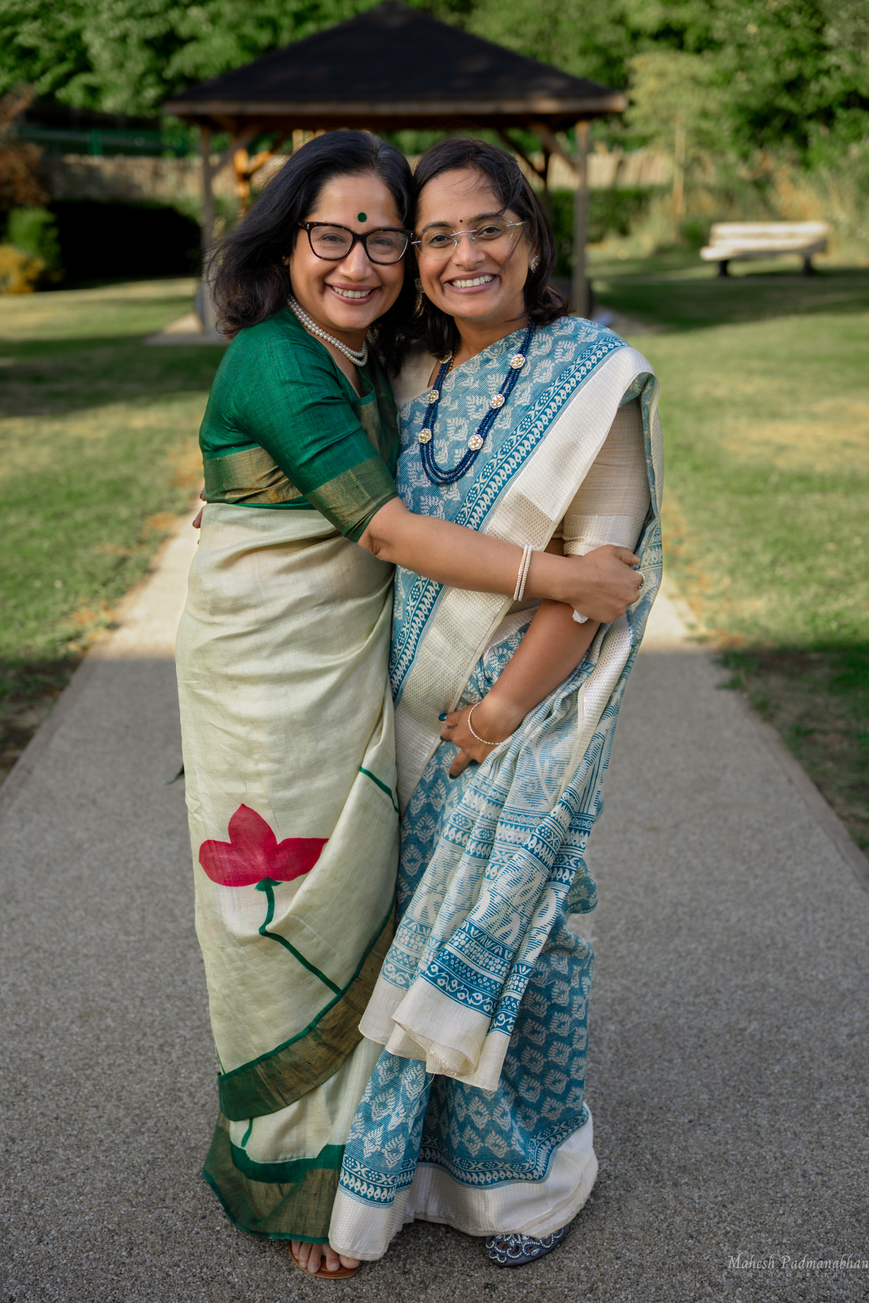
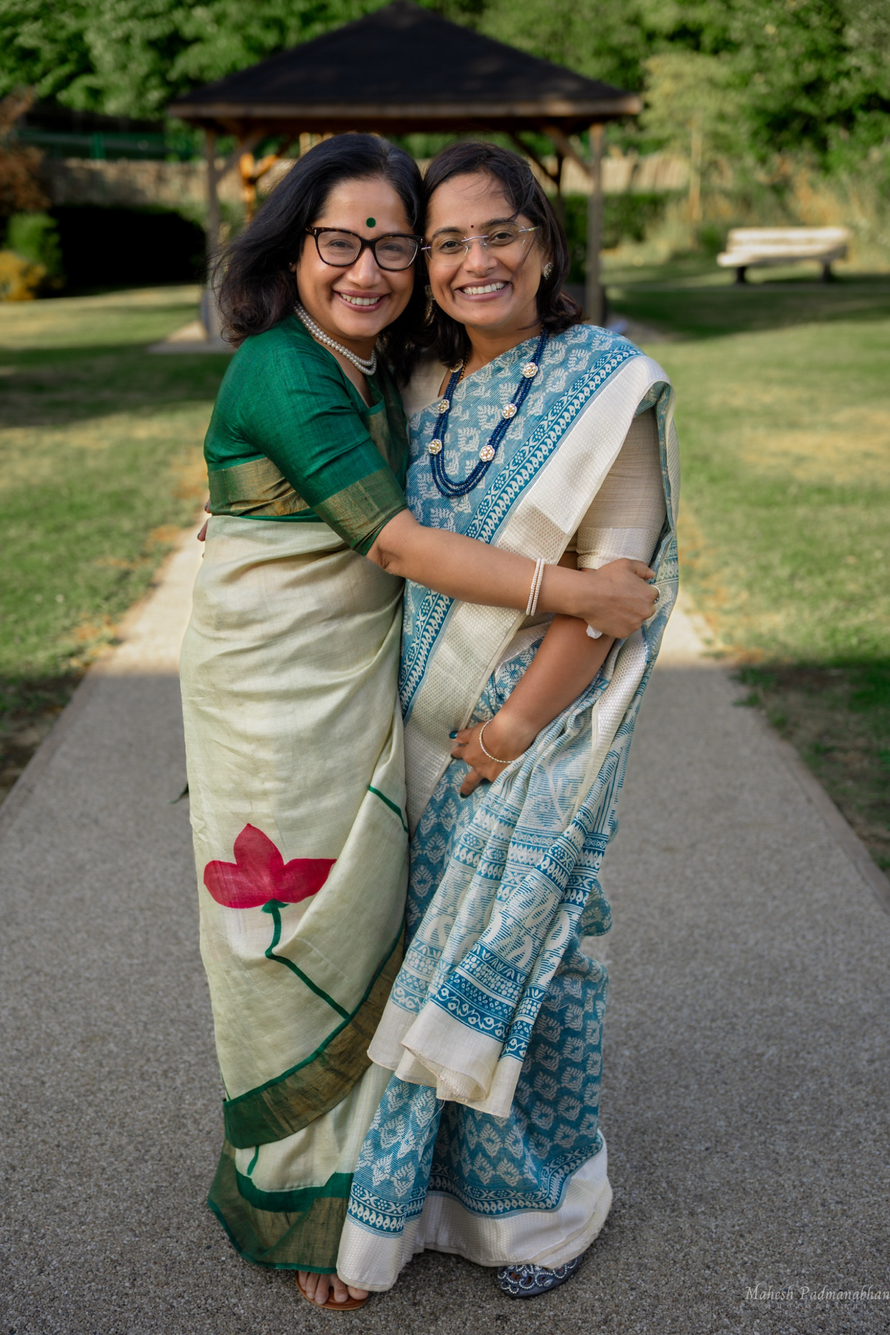
Resize source images to fix 502s from the image optimizer
The hero and portfolio images were camera originals up to 4000x6000 at
14MB. Sharp had to decode ~24MP (~96MB raw) per transform, which exceeded
the container's memory: /_next/image returned 502 at the larger widths
(1920/2048/3840) and intermittently at small ones as the container
crash-looped and restarted. No photos rendered on the deployed site.

Resized every image to 2560px on the longest edge at quality 82, which
still covers a full-width retina hero. public/images drops 87MB -> 13MB
and the largest file 14MB -> 680KB.

Also raised images.minimumCacheTTL to 31 days so each optimized variant
is generated once per container instead of every 60 seconds.

Originals remain in git history prior to this commit.

diff --git a/next.config.js b/next.config.js
@@ -1,5 +1,10 @@
 /** @type {import('next').NextConfig} */
-const nextConfig = {}
+const nextConfig = {
+  images: {
+    // Optimized variants are cached for 31 days instead of the 60s default,
+    // so each size is generated once per container rather than repeatedly.
+    minimumCacheTTL: 2678400,
+  },
+}
 
 module.exports = nextConfig
-
